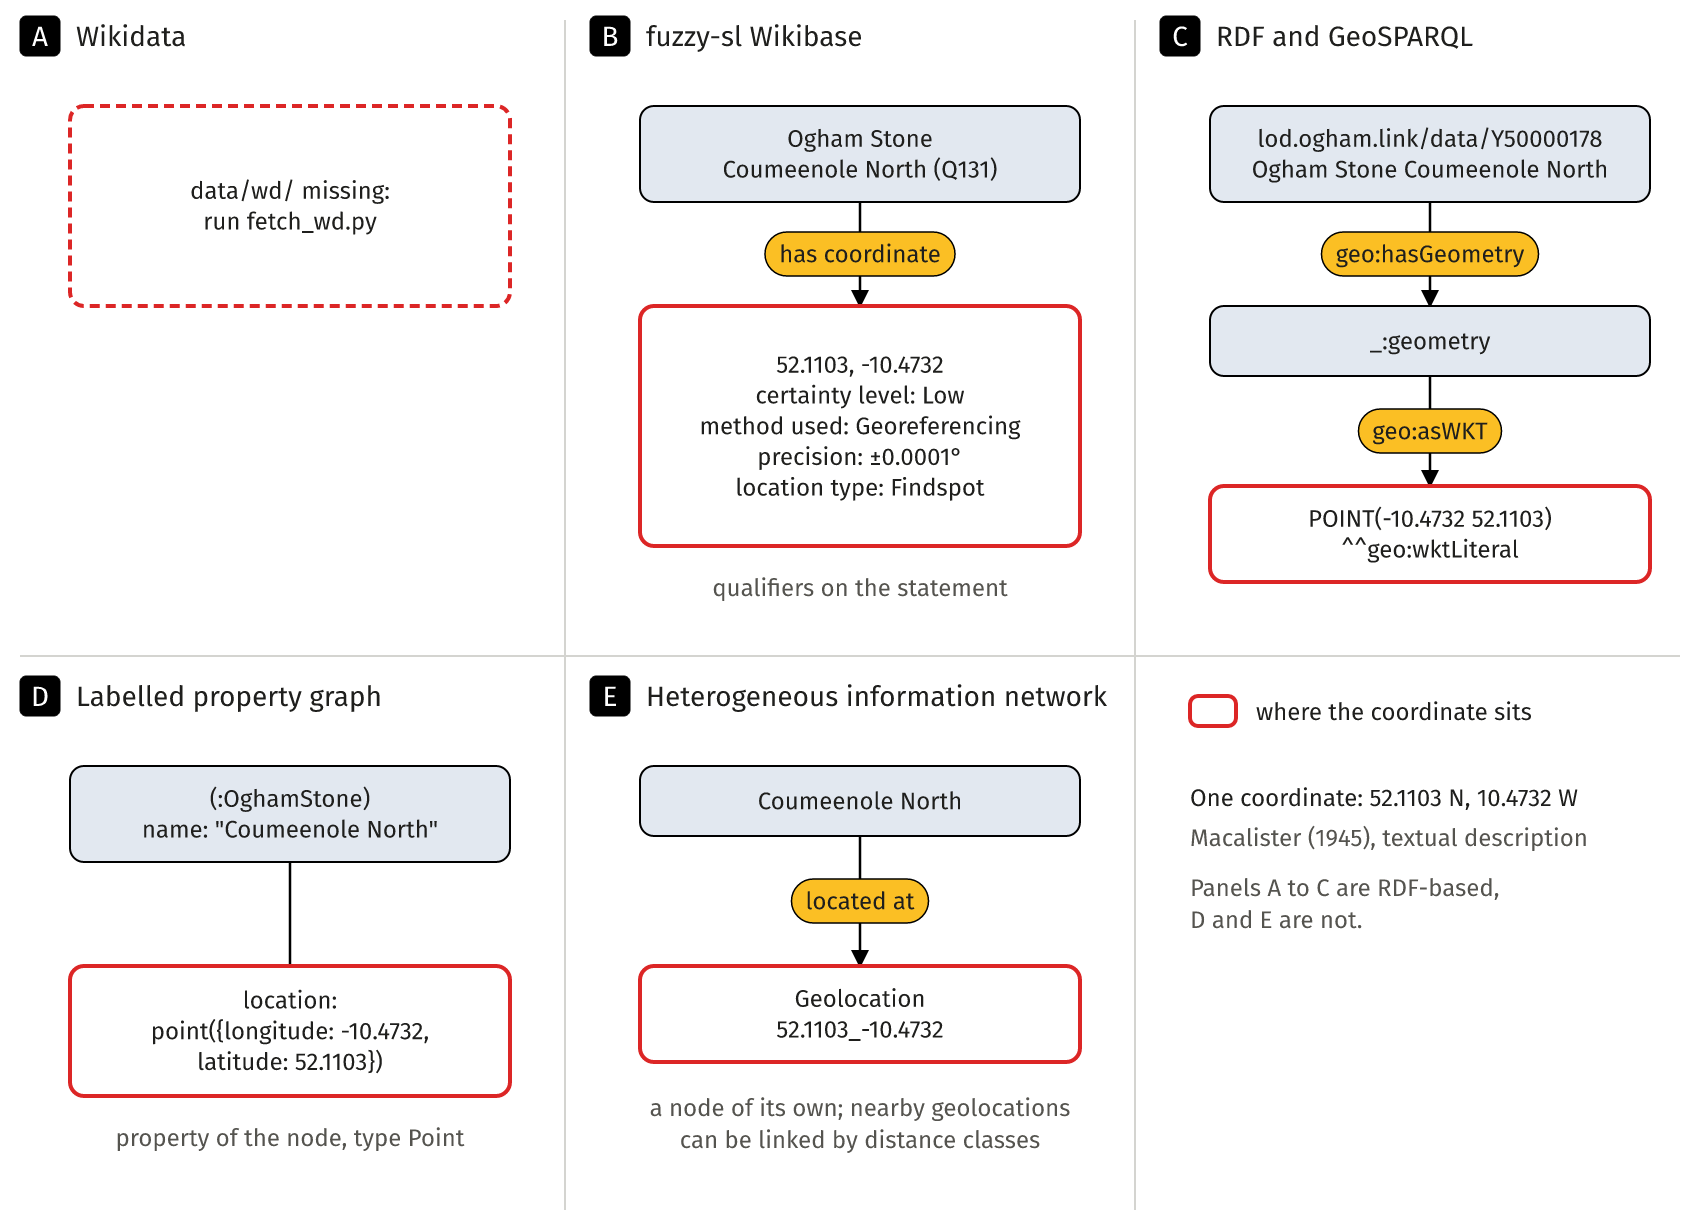
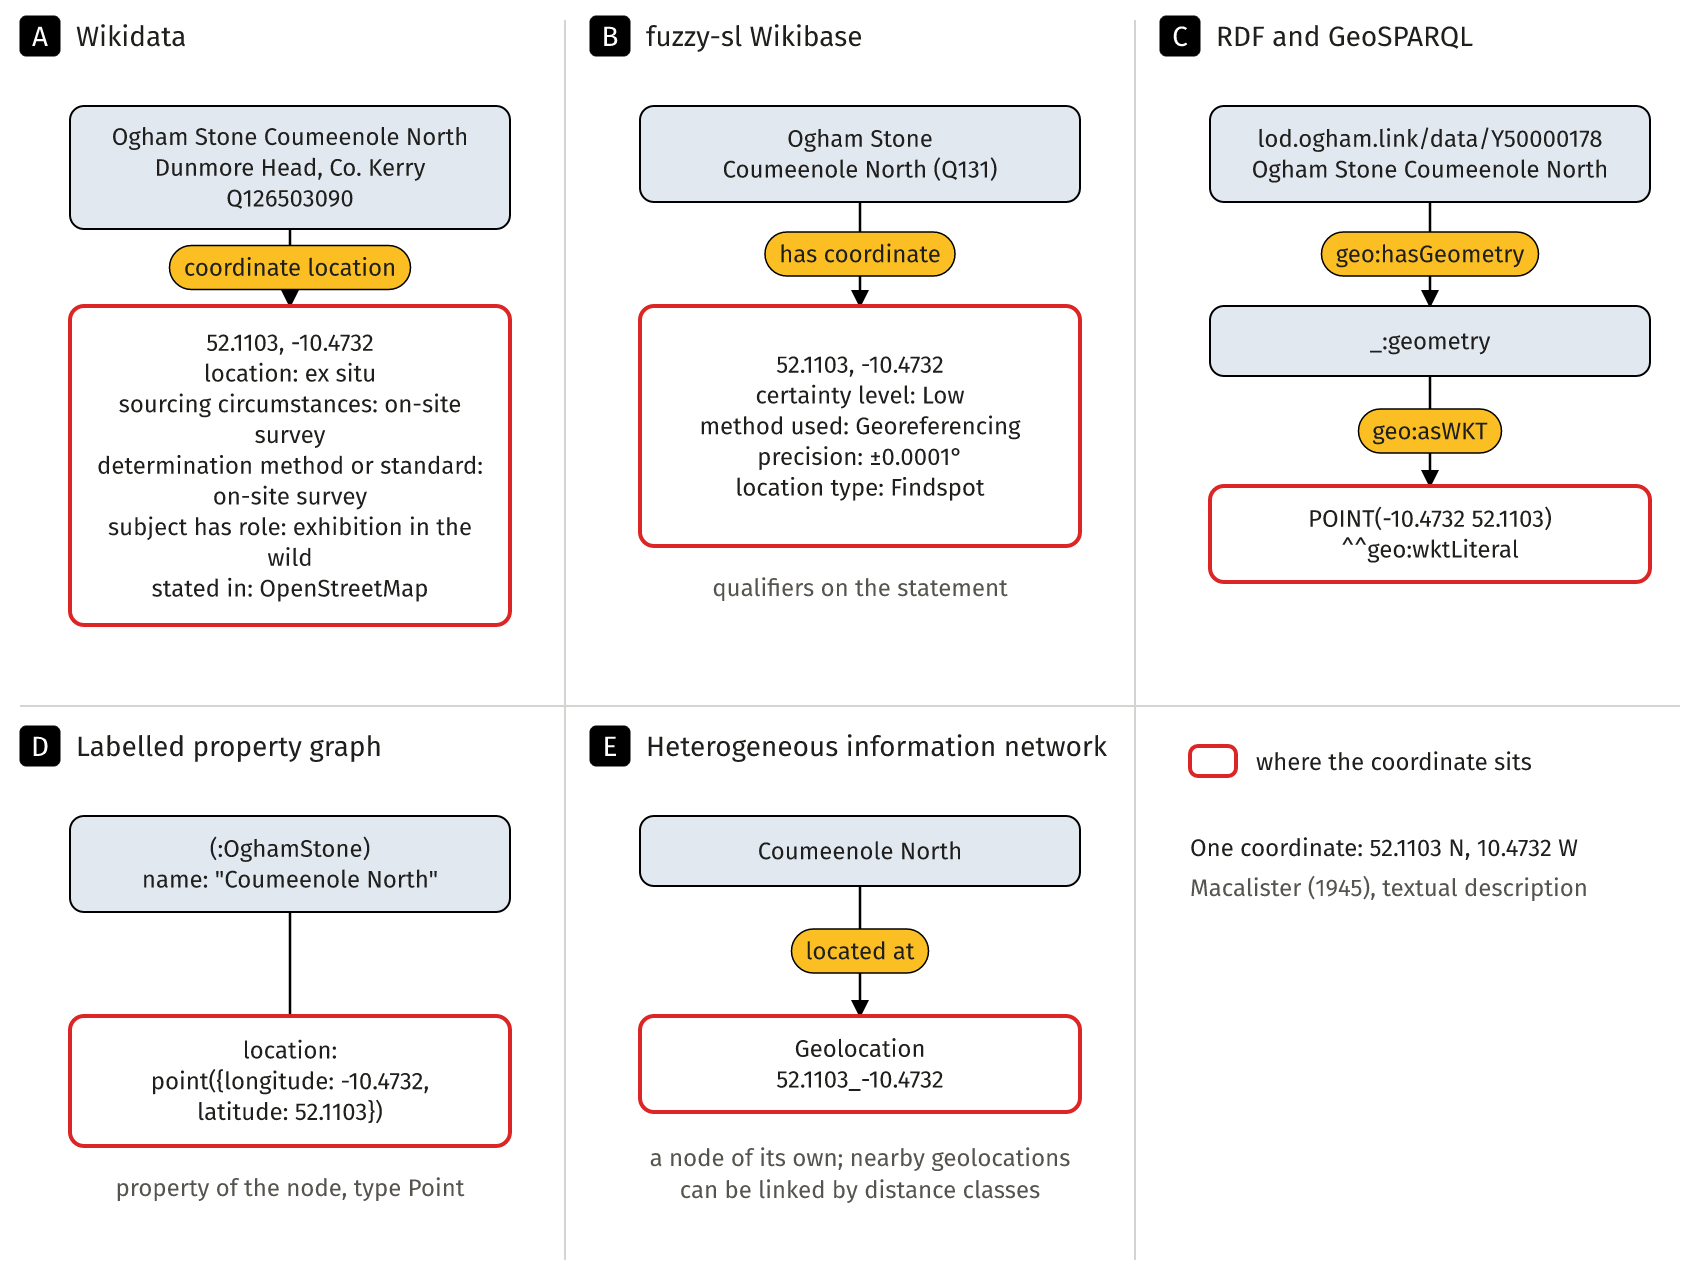
deRSE26: Z2 layout (tall Wikidata panel), data-driven key, no RDF claim
Claude-Session: https://claude.ai/code/session_0145BdeBL6JEDb3HE12Py9VZ

diff --git a/deRSE26/figures/figs.py b/deRSE26/figures/figs.py
@@ -323,12 +323,12 @@ def z2():
     lat, lon = round(v['latitude'], 4), round(v['longitude'], 4)
     quals = [(wb_label(p), snak_text(st['qualifiers'][p][0])) for p in ('P5', 'P7', 'P23', 'P24')]
     wd, wdl = wd_data()
-    H = 1230
+    H = 1280
     f = Fig('z2_one_stone_five_models', H)
     def panel_title(x, y, letter, text):
         f.o.append(f'<rect x="{x}" y="{y}" width="40" height="40" rx="6" fill="#000" stroke="#000" stroke-width="1"/>')
         f.text(x + 20, y + 30, letter, 28, 500, '#fff'); f.text(x + 56, y + 30, text, 28, 500, INK, 'start')
-    cols = (20, 590, 1160); rows = (16, 676)
+    cols = (20, 590, 1160); rows = (16, 726)
     for x in (570, 1140): f.o.append(f'<line x1="{x - 5}" y1="20" x2="{x - 5}" y2="{H - 20}" stroke="#d4d4d0" stroke-width="2"/>')
     f.o.append(f'<line x1="20" y1="{rows[1] - 20}" x2="{W - 20}" y2="{rows[1] - 20}" stroke="#d4d4d0" stroke-width="2"/>')
     # A: Wikidata (read from data/wd/, see fetch_wd.py)
@@ -343,7 +343,8 @@ def z2():
         wl = wd['labels']['en']['value'].split(' / ') + ['Q126503090']
         f.box(x0, y + 90, w, 30 + 31 * len(wl), INST, wl)
         f.arrow(cx, y + 120 + 31 * len(wl), cx, y + 290); f.chip(cx, y + (120 + 31 * len(wl) + 290) / 2, 'coordinate location')
-        f.box(x0, y + 290, w, 60 + 36 * len(lines), '#fff', lines, stroke=RED, sw=4)
+        lines = [t for l in lines for t in wrap(l, w - 30)]
+        f.box(x0, y + 290, w, 40 + 31 * len(lines), '#fff', lines, stroke=RED, sw=4)
     else:
         f.box(x0, y + 90, w, 200, '#fff', ['data/wd/ missing:', 'run fetch_wd.py'], stroke=RED, sw=4, dash=True)
     # B: fuzzy-sl Wikibase
@@ -377,9 +378,8 @@ def z2():
     # F: key
     x0 = cols[2] + 30
     f.o.append(f'<rect x="{x0}" y="{y + 20}" width="46" height="30" rx="8" fill="#fff" stroke="{RED}" stroke-width="4"/>'); f.text(x0 + 66, y + 44, 'where the coordinate sits', MIN_TYPE, 400, INK, 'start')
-    f.text(x0, y + 130, 'One coordinate: 52.1103 N, 10.4732 W', MIN_TYPE, 500, INK, 'start')
+    f.text(x0, y + 130, f'One coordinate: {lat} N, {abs(lon)} W', MIN_TYPE, 500, INK, 'start')
     f.text(x0, y + 170, 'Macalister (1945), textual description', MIN_TYPE, 400, MUT, 'start')
-    f.text(x0, y + 220, 'Panels A to C are RDF-based,', MIN_TYPE, 400, MUT, 'start'); f.text(x0, y + 252, 'D and E are not.', MIN_TYPE, 400, MUT, 'start')
     f.done()
 
 # ---------------------------------------------------------------- Fig. 7: CI instances
